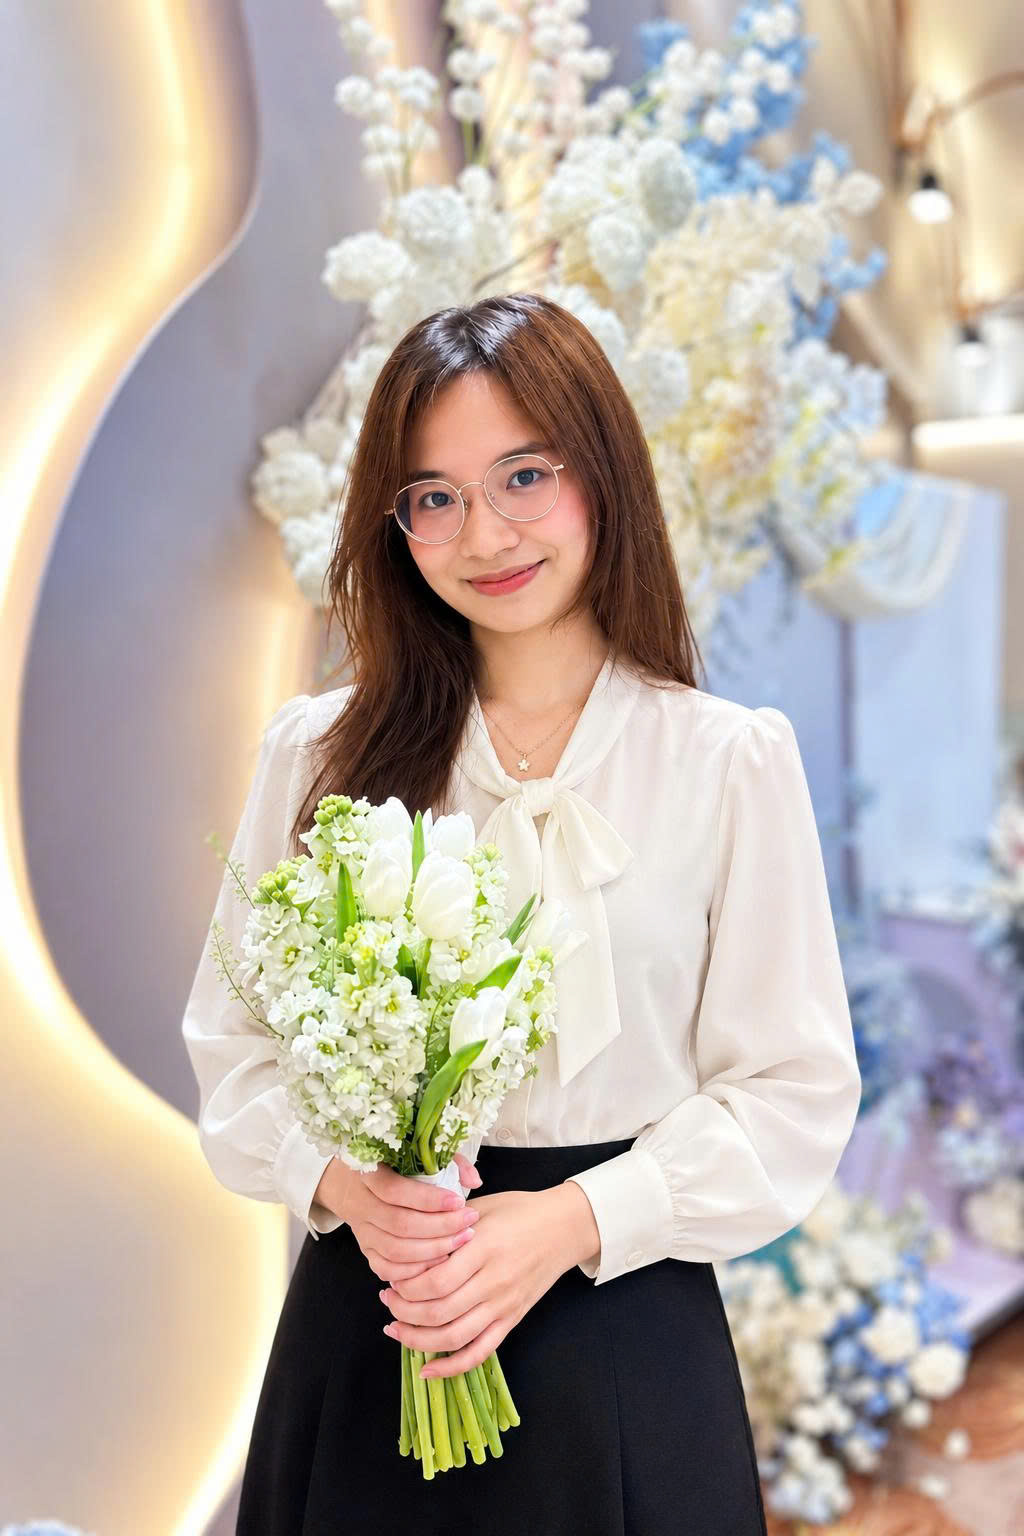
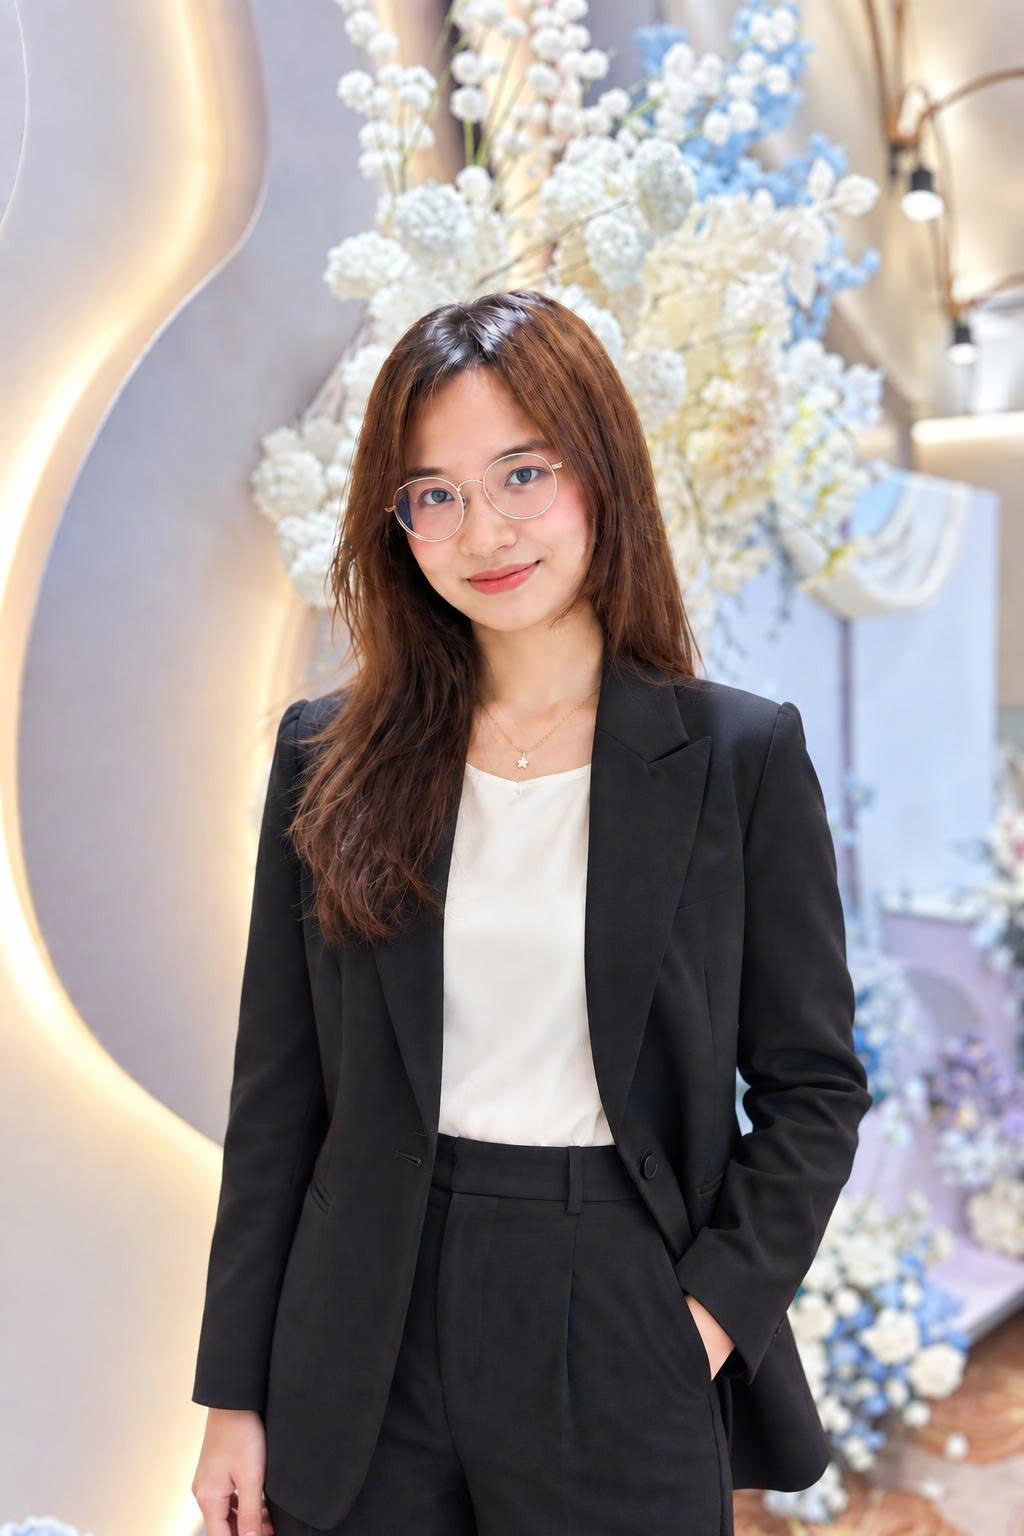
Update title and company for Tran Phuong Anh

diff --git a/src/app/page.tsx b/src/app/page.tsx
@@ -195,8 +195,8 @@ export default function HomePage() {
             />
             <InstructorCard
               name="Trần Phương Anh"
-              role="Giám đốc Điều hành"
-              company="Công ty TNHH Công nghiệp và TM Hosung VN"
+              role="Leader phòng Mua hàng"
+              company="Công ty Cổ phần Đầu tư Công nghệ SHT"
               description="Quản lý chuỗi cung ứng cho 200 khách hàng SMEs tại Việt Nam"
               color="primary"
               image="/images/instructors/tran-phuong-anh.jpg"

diff --git a/src/app/giang-vien/page.tsx b/src/app/giang-vien/page.tsx
@@ -28,8 +28,8 @@ export default function InstructorsPage() {
     },
     {
       name: "Trần Phương Anh",
-      role: "Giám đốc Điều hành",
-      company: "Công ty TNHH Công nghiệp và TM Hosung VN",
+      role: "Leader phòng Mua hàng",
+      company: "Công ty Cổ phần Đầu tư Công nghệ SHT",
       description: "Quản lý chuỗi cung ứng cho 200 khách hàng SMEs tại Việt Nam",
       color: "primary",
       image: "/images/instructors/tran-phuong-anh.jpg",
